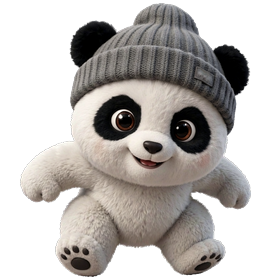
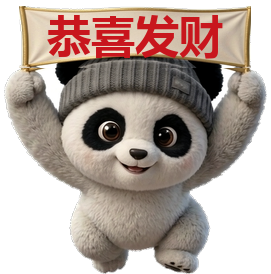
feat(pet): 上涨庆祝改为举「恭喜发财」红字横幅跳跃
- 新 4 帧 happy 帧池：熊猫双手举横幅腾空，横幅为奶油色布料 + 金色描边 + 朱红「恭喜发财」
- 文字不走 AI：scripts/make_banner_frames.py 让 AI 只画空白横幅，中文用系统字体 msyhbd
  在脚本里绘制（字号按布料自适应、留边 12%），避免 AI 写坏字
- 版式为「本体高度对齐 idle 274px + 横幅单独缩放 232x62 贴头顶、底边压爪子 6px」，
  切换动作时角色不跳变
- manifest：idle-smile / happy / panic-happy 统一用 4 帧，fps 分别 5 / 6 / 8
- fix(PetStage)：朝向翻转收敛到 playAction，避免走路向左的负缩放残留导致
  后续动作（含横幅文字）整体镜像

diff --git a/apps/renderer/src/pet/PetStage.vue b/apps/renderer/src/pet/PetStage.vue
@@ -143,6 +143,10 @@ function playAction(action: string): void {
   currentAction = key
   currentFrame = 0
   sprite.texture = first
+  // 朝向在每次切动作时统一重置：walk 向左时 scale.x 为负，
+  // 若只在 watch 里纠正，任何绕过 watch 的切换（皮肤热更、直接 setAction）
+  // 都会让非走路动作继承镜像，横幅文字会反着显示。
+  applyFacing()
   const fps = cfg.fps ?? manifest.fps ?? 12
   const loop = cfg.loop
   const next = cfg.next ?? null

diff --git a/scripts/make_banner_frames.py b/scripts/make_banner_frames.py
@@ -1,0 +1,137 @@
+#!/usr/bin/env python3
+"""
+把「双手举横幅跳跃」的 sprite sheet 处理成带「恭喜发财」红字的桌宠帧池。
+
+为什么分两步：AI 直接画中文几乎必然写错字，所以让 AI 只画**空白横幅**，
+中文用系统中文字体（msyhbd）在脚本里绘制 —— 字一定对、颜色一定准。
+
+布局原则（与 idle 帧对齐，切换动作不跳变）：
+  - 角色本体缩放到与 idle 相同的角色高（274px），底部对齐；
+  - 横幅单独缩放（宽 232 / 高 62）贴在头顶，底边与爪子重叠 6px 形成"握着"的观感；
+  - 画布 271 宽，高度 = 6 + 274 + 62，宽度按 display.width 映射到 140px 显示。
+
+用法：
+    python scripts/make_banner_frames.py <sheet.png> [--action happy] [--text 恭喜发财]
+"""
+import argparse
+import os
+import sys
+
+from PIL import Image, ImageDraw, ImageFont
+
+sys.path.insert(0, os.path.dirname(os.path.abspath(__file__)))
+from make_action_frames import CANVAS_W, SKIN, cutout_white, idle_target_height  # noqa: E402
+from sprite_sheet_to_frames import components, group_grid  # noqa: E402
+
+FONT = r'C:\Windows\Fonts\msyhbd.ttc'
+TEXT_COLOR = (200, 22, 29)     # 朱红
+BANNER_W, BANNER_H = 232, 62
+GRIP_OVERLAP = 6               # 横幅底边压在爪子上方的像素数
+TOP_PAD = 6
+
+
+def detect_banner(crop: Image.Image):
+    """用横幅的金色描边定位横幅范围（比找奶油色布料更稳，不会把熊猫白毛算进去）。"""
+    px = crop.load()
+    w, h = crop.size
+    xs, ys = [], []
+    for y in range(h):
+        for x in range(w):
+            r, g, b, a = px[x, y]
+            if a > 200 and 165 <= r <= 235 and 140 <= g <= 200 and 70 <= b <= 150 \
+                    and (r - b) >= 55 and (g - b) >= 30:
+                xs.append(x)
+                ys.append(y)
+    if not xs:
+        return None
+    return (min(xs), min(ys), max(xs) + 1, max(ys) + 1)
+
+
+def draw_text_on_banner(banner: Image.Image, text: str) -> Image.Image:
+    """在横幅布料上居中写红字，字号自适应到可用宽度。"""
+    im = banner.copy()
+    d = ImageDraw.Draw(im)
+    w, h = im.size
+    inset_x = int(w * 0.12)
+    inset_y = int(h * 0.16)
+    avail_w = w - inset_x * 2
+    avail_h = h - inset_y * 2
+    size = avail_h
+    while size > 6:
+        font = ImageFont.truetype(FONT, size)
+        bbox = d.textbbox((0, 0), text, font=font)
+        tw, th = bbox[2] - bbox[0], bbox[3] - bbox[1]
+        if tw <= avail_w and th <= avail_h:
+            break
+        size -= 1
+    font = ImageFont.truetype(FONT, size)
+    bbox = d.textbbox((0, 0), text, font=font)
+    tw, th = bbox[2] - bbox[0], bbox[3] - bbox[1]
+    x = (w - tw) / 2 - bbox[0]
+    y = (h - th) / 2 - bbox[1]
+    d.text((x, y), text, font=font, fill=TEXT_COLOR)
+    return im
+
+
+def build_frame(crop: Image.Image, text: str, body_h: int) -> Image.Image:
+    banner_box = detect_banner(crop)
+    if banner_box is None:
+        raise SystemExit('没找到横幅（金色描边），检查 AI 出图是否带金色边框')
+    bx0, by0, bx1, by1 = banner_box
+    # 横幅单独取（含金色边框）；本体从横幅底边略上方开始，保证爪子与横幅相接
+    banner = crop.crop((bx0, by0, bx1, by1))
+    body = crop.crop((0, max(0, by1 - GRIP_OVERLAP - 2), crop.width, crop.height))
+    bb = body.getchannel('A').getbbox()
+    if not bb:
+        raise SystemExit('本体裁剪后为空')
+    body = body.crop(bb)
+
+    # 本体：高度对齐 idle，宽度不超过画布（留 8px 余量）
+    scale = body_h / body.height
+    if body.width * scale > CANVAS_W - 8:
+        scale = (CANVAS_W - 8) / body.width
+    bw = max(1, round(body.width * scale))
+    bh = max(1, round(body.height * scale))
+    body = body.resize((bw, bh), Image.LANCZOS)
+
+    banner = banner.resize((BANNER_W, BANNER_H), Image.LANCZOS)
+    banner = draw_text_on_banner(banner, text)
+
+    canvas_h = TOP_PAD + BANNER_H + bh
+    canvas = Image.new('RGBA', (CANVAS_W, canvas_h), (0, 0, 0, 0))
+    banner_x = (CANVAS_W - BANNER_W) // 2
+    banner_y = TOP_PAD
+    canvas.paste(banner, (banner_x, banner_y), banner)
+    # 本体压在横幅下沿之上（后贴 -> 爪子在横幅前，形成"握住"的层次）
+    body_x = (CANVAS_W - bw) // 2
+    body_y = canvas_h - bh
+    canvas.paste(body, (body_x, body_y), body)
+    return canvas
+
+
+def main():
+    ap = argparse.ArgumentParser()
+    ap.add_argument('sheet')
+    ap.add_argument('--action', default='happy')
+    ap.add_argument('--text', default='恭喜发财')
+    args = ap.parse_args()
+
+    sheet = cutout_white(Image.open(args.sheet))
+    cells = group_grid(components(sheet), sheet.size, 2, 2)
+    body_h = idle_target_height()
+    out_dir = os.path.join(SKIN, 'actions', args.action)
+    os.makedirs(out_dir, exist_ok=True)
+    for old in os.listdir(out_dir):
+        if old.endswith('.png'):
+            os.remove(os.path.join(out_dir, old))
+
+    for i, box in enumerate(cells, start=1):
+        crop = sheet.crop((box[0], box[1], box[2] + 1, box[3] + 1))
+        frame = build_frame(crop, args.text, body_h)
+        frame.save(os.path.join(out_dir, f'{i:04d}.png'), optimize=True)
+        print(f'  帧 {i}: {frame.size}')
+    print(f'[OK] {args.action}: {len(cells)} 帧，红字「{args.text}」，本体高 {body_h}px -> {out_dir}')
+
+
+if __name__ == '__main__':
+    main()
